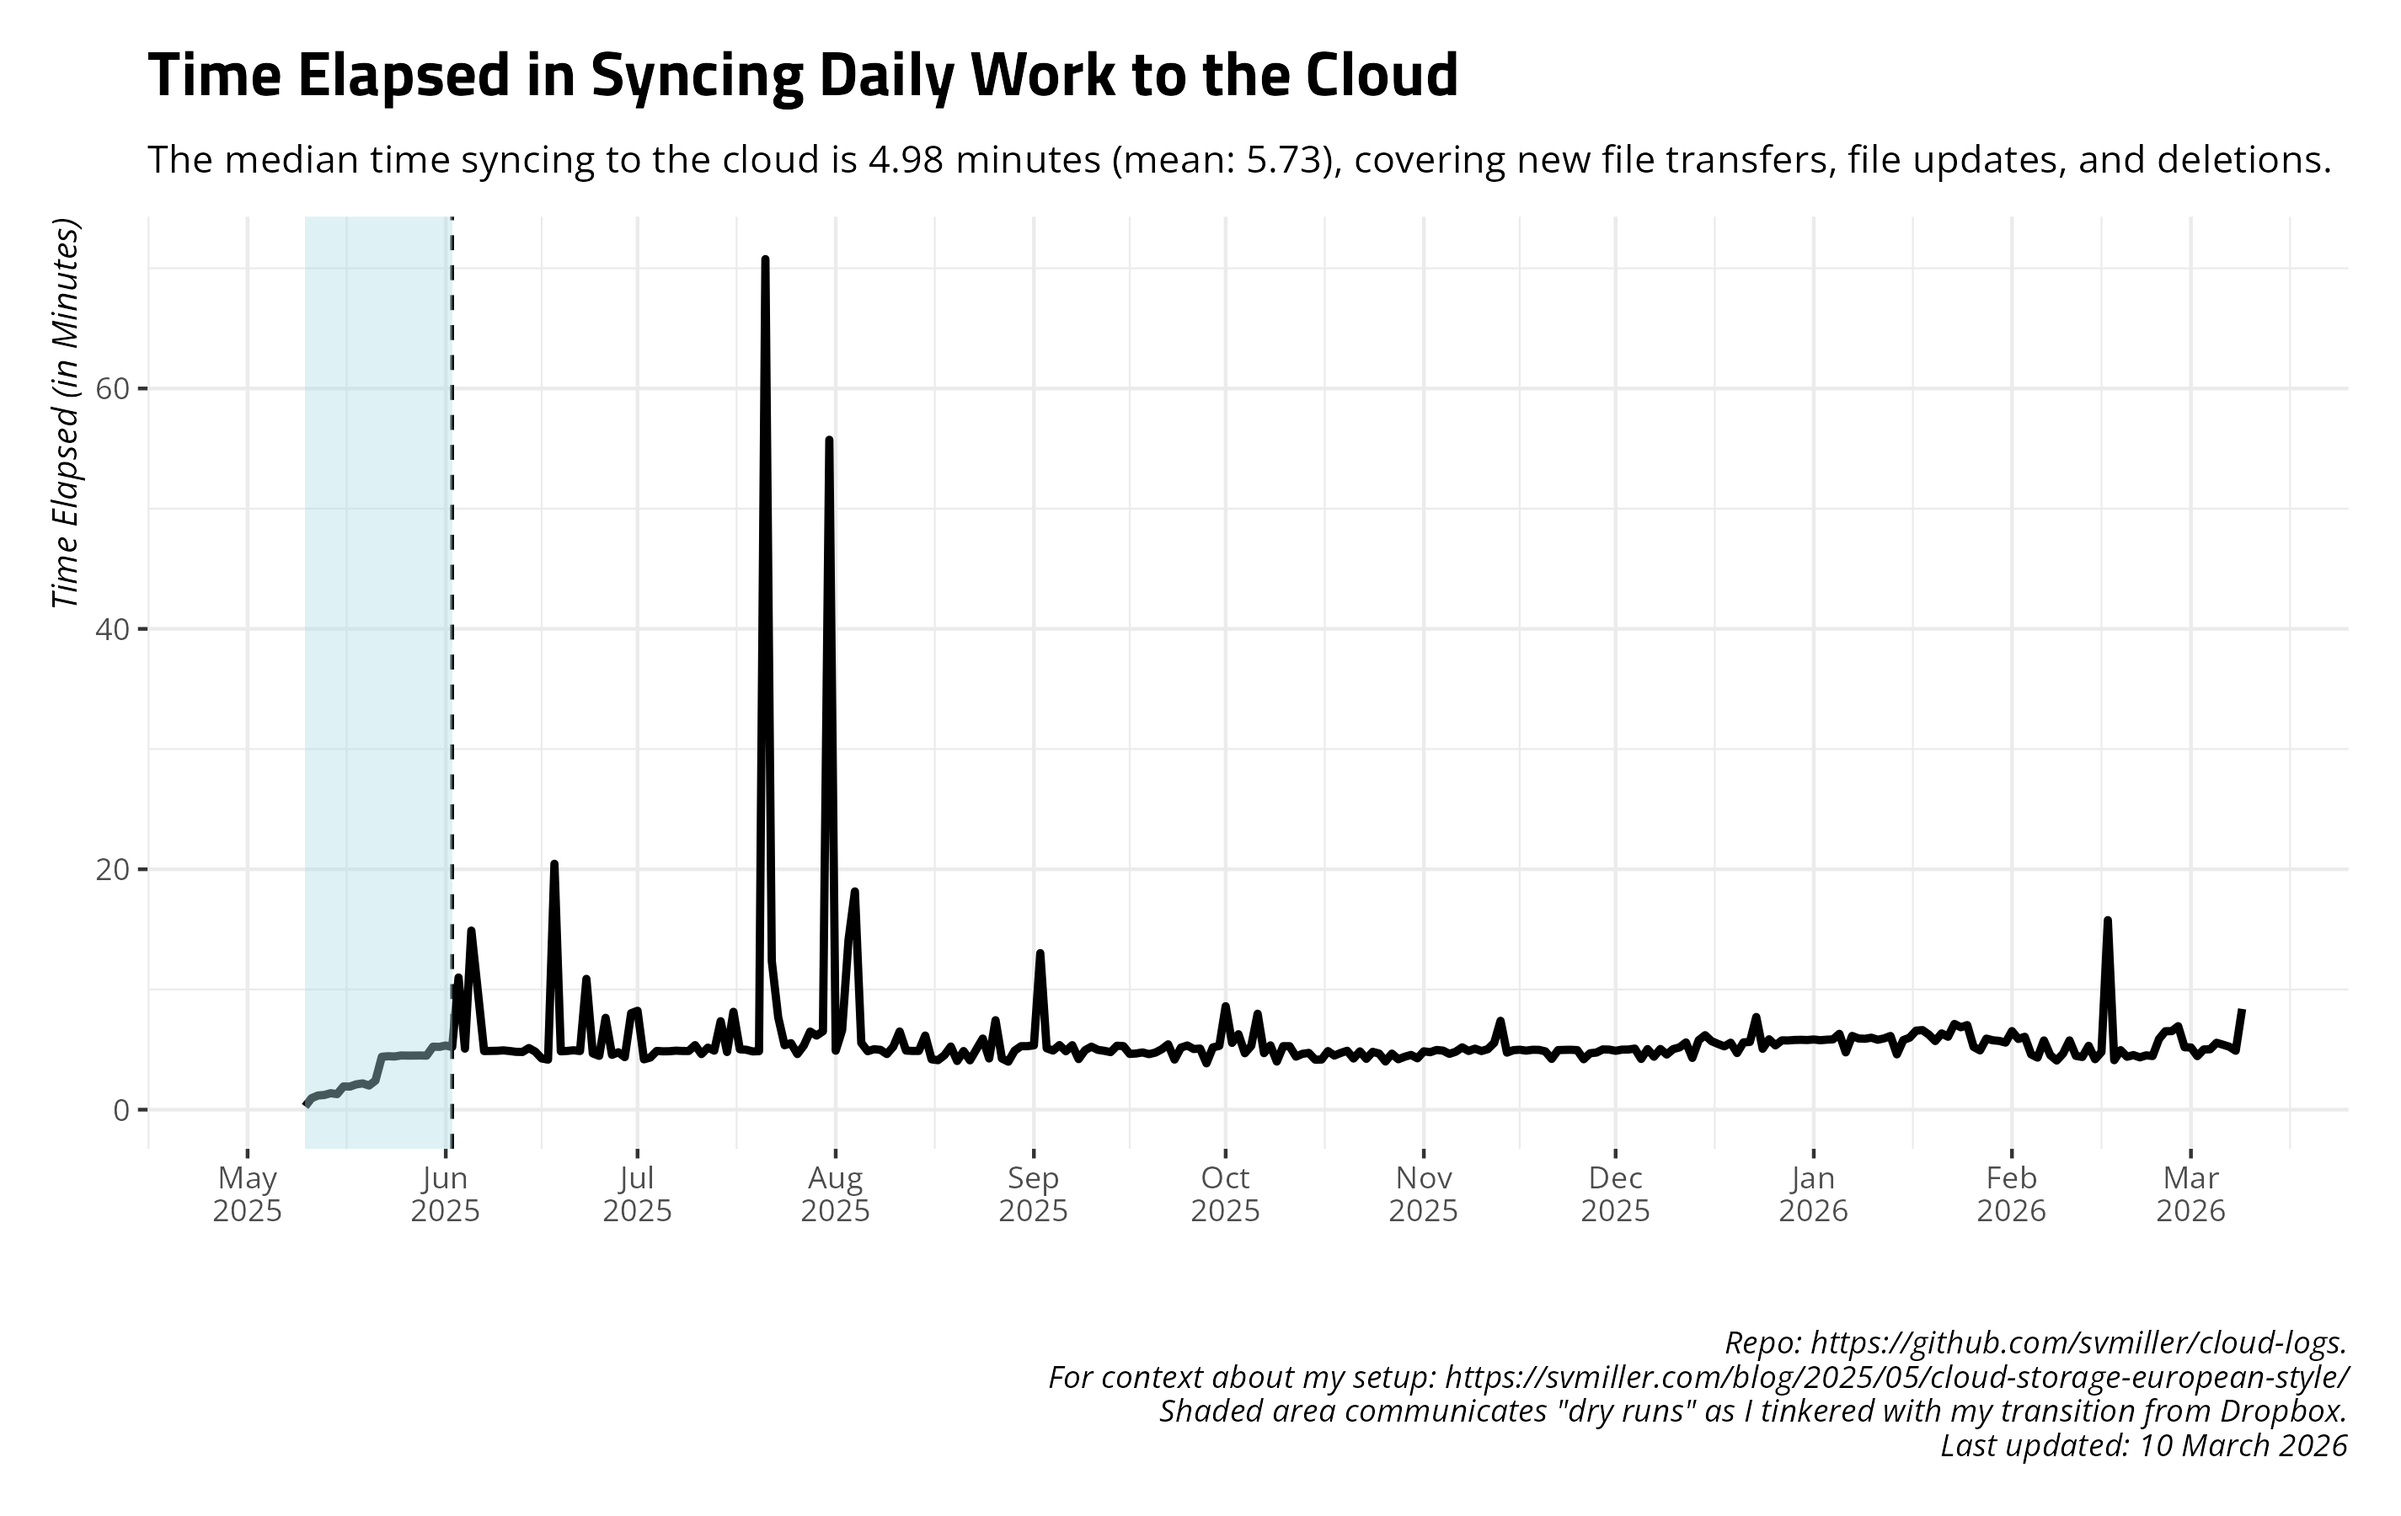
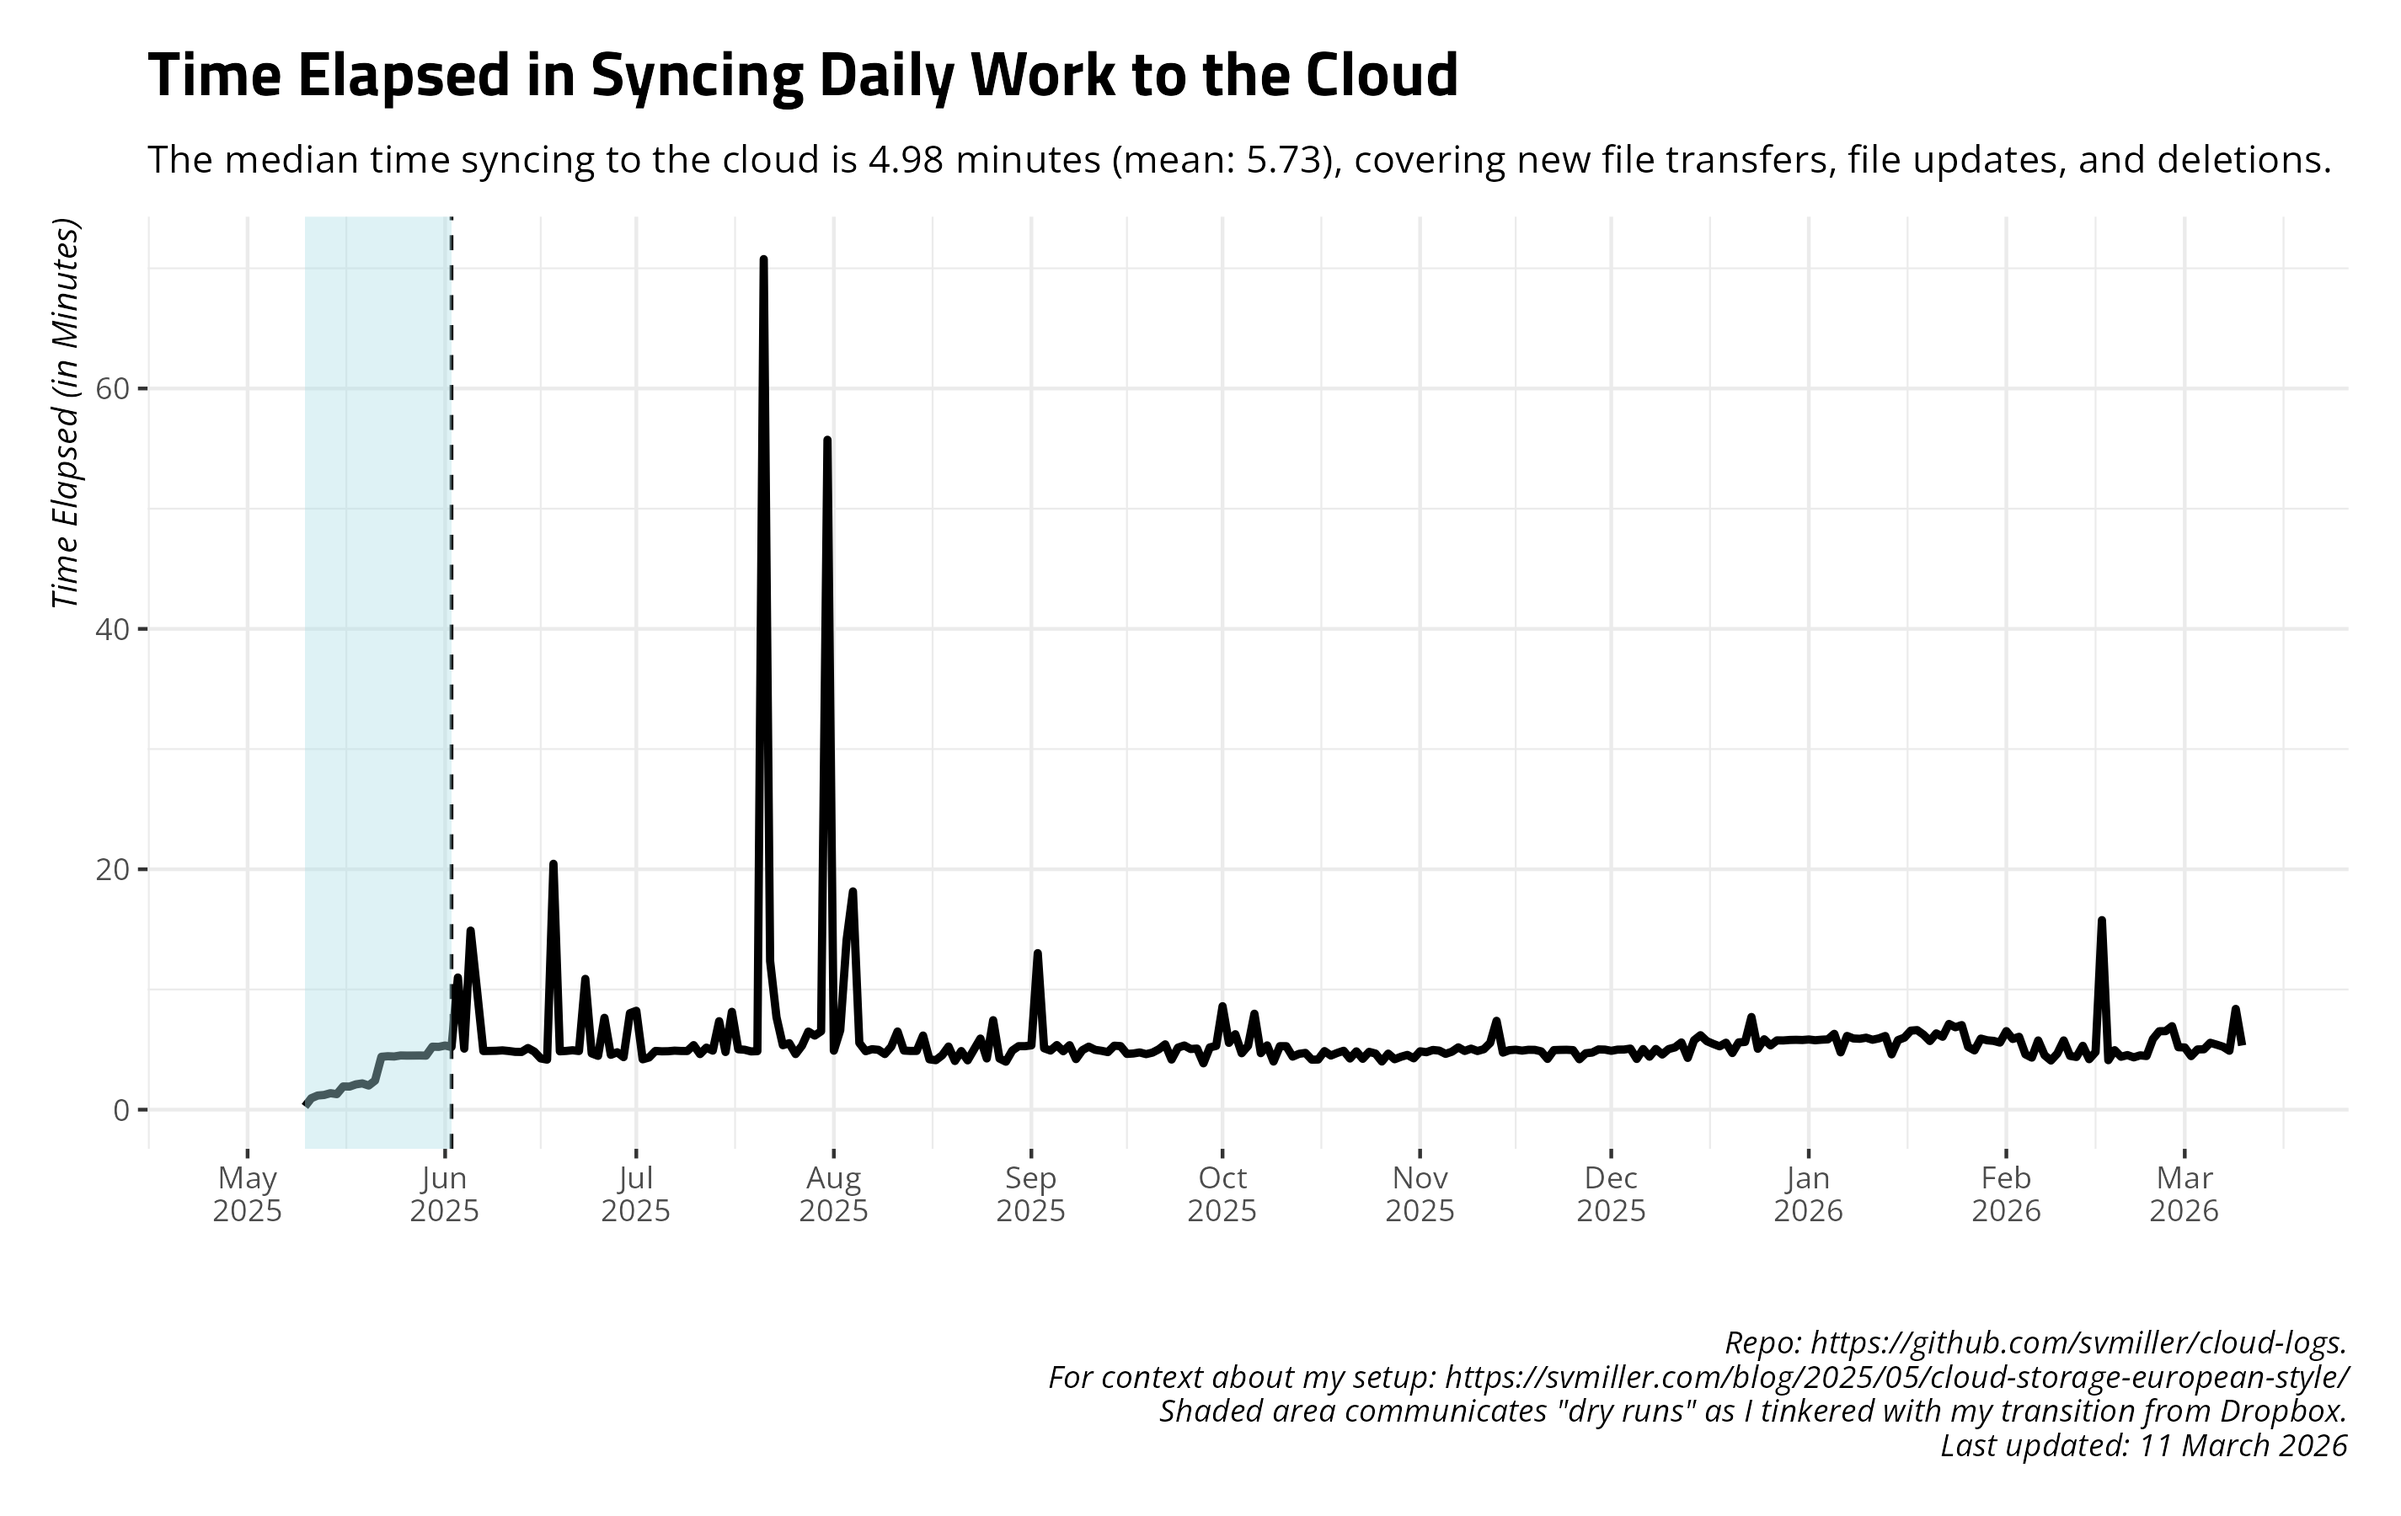
Date: 2026-03-11 09:00:25. Hi mom!

diff --git a/README.md b/README.md
@@ -27,17 +27,17 @@ and uploads to Github.
     #> # A tibble: 14 × 4
     #>    date       ftransfer stransfer   elapsed
     #>    <date>         <dbl> <chr>       <chr>  
-    #>  1 2026-02-24        10 102.766 KiB 5m52.5s
-    #>  2 2026-02-25        26 597.885 KiB 6m31.5s
-    #>  3 2026-02-26        52 1.423 MiB   6m32.0s
-    #>  4 2026-02-27         1 57.085 KiB  6m56.7s
-    #>  5 2026-02-28         0 <NA>        5m11.6s
-    #>  6 2026-03-01         1 54.132 KiB  5m10.4s
-    #>  7 2026-03-02        39 1.947 MiB   4m27.2s
-    #>  8 2026-03-03        68 1.023 MiB   5m0.6s 
-    #>  9 2026-03-04        43 13.051 MiB  5m1.4s 
-    #> 10 2026-03-05        34 104.038 KiB 5m33.8s
-    #> 11 2026-03-06        71 3.873 MiB   5m24.4s
-    #> 12 2026-03-07         0 <NA>        5m14.2s
-    #> 13 2026-03-08        18 146.060 KiB 4m54.1s
-    #> 14 2026-03-09       341 3.990 MiB   8m23.0s
+    #>  1 2026-02-25        26 597.885 KiB 6m31.5s
+    #>  2 2026-02-26        52 1.423 MiB   6m32.0s
+    #>  3 2026-02-27         1 57.085 KiB  6m56.7s
+    #>  4 2026-02-28         0 <NA>        5m11.6s
+    #>  5 2026-03-01         1 54.132 KiB  5m10.4s
+    #>  6 2026-03-02        39 1.947 MiB   4m27.2s
+    #>  7 2026-03-03        68 1.023 MiB   5m0.6s 
+    #>  8 2026-03-04        43 13.051 MiB  5m1.4s 
+    #>  9 2026-03-05        34 104.038 KiB 5m33.8s
+    #> 10 2026-03-06        71 3.873 MiB   5m24.4s
+    #> 11 2026-03-07         0 <NA>        5m14.2s
+    #> 12 2026-03-08        18 146.060 KiB 4m54.1s
+    #> 13 2026-03-09       341 3.990 MiB   8m23.0s
+    #> 14 2026-03-10         0 <NA>        5m20.3s
